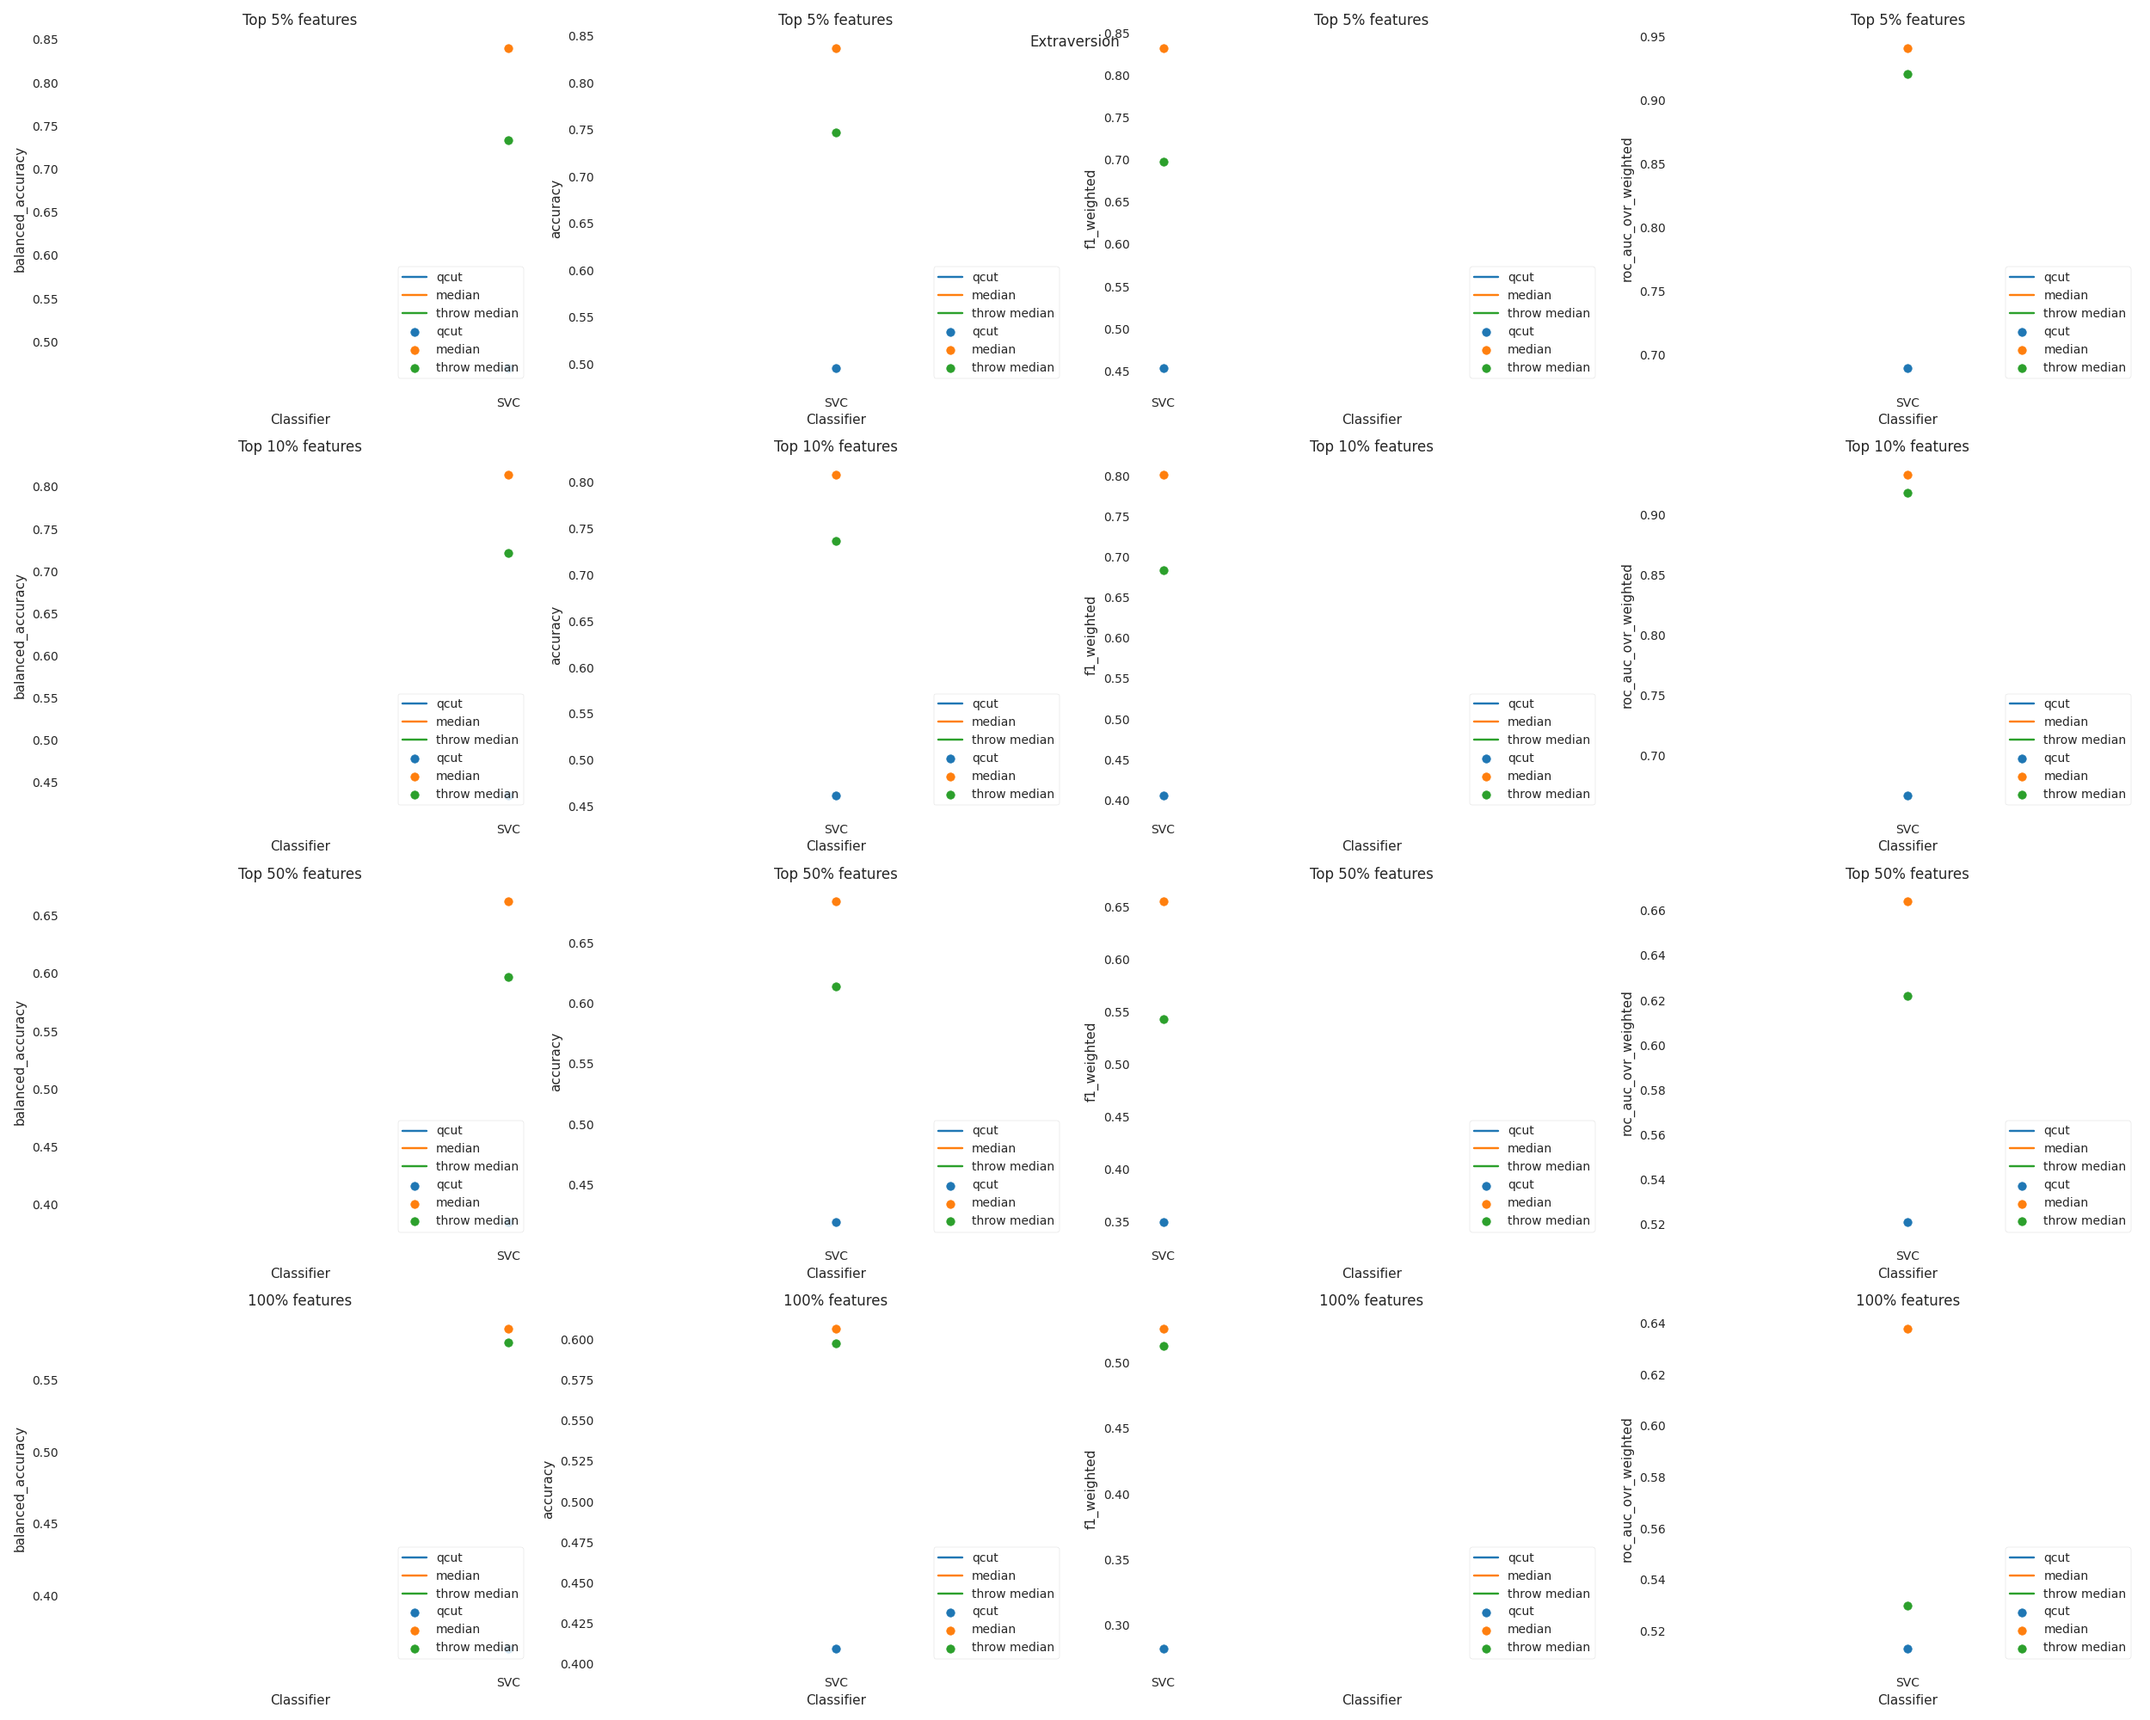
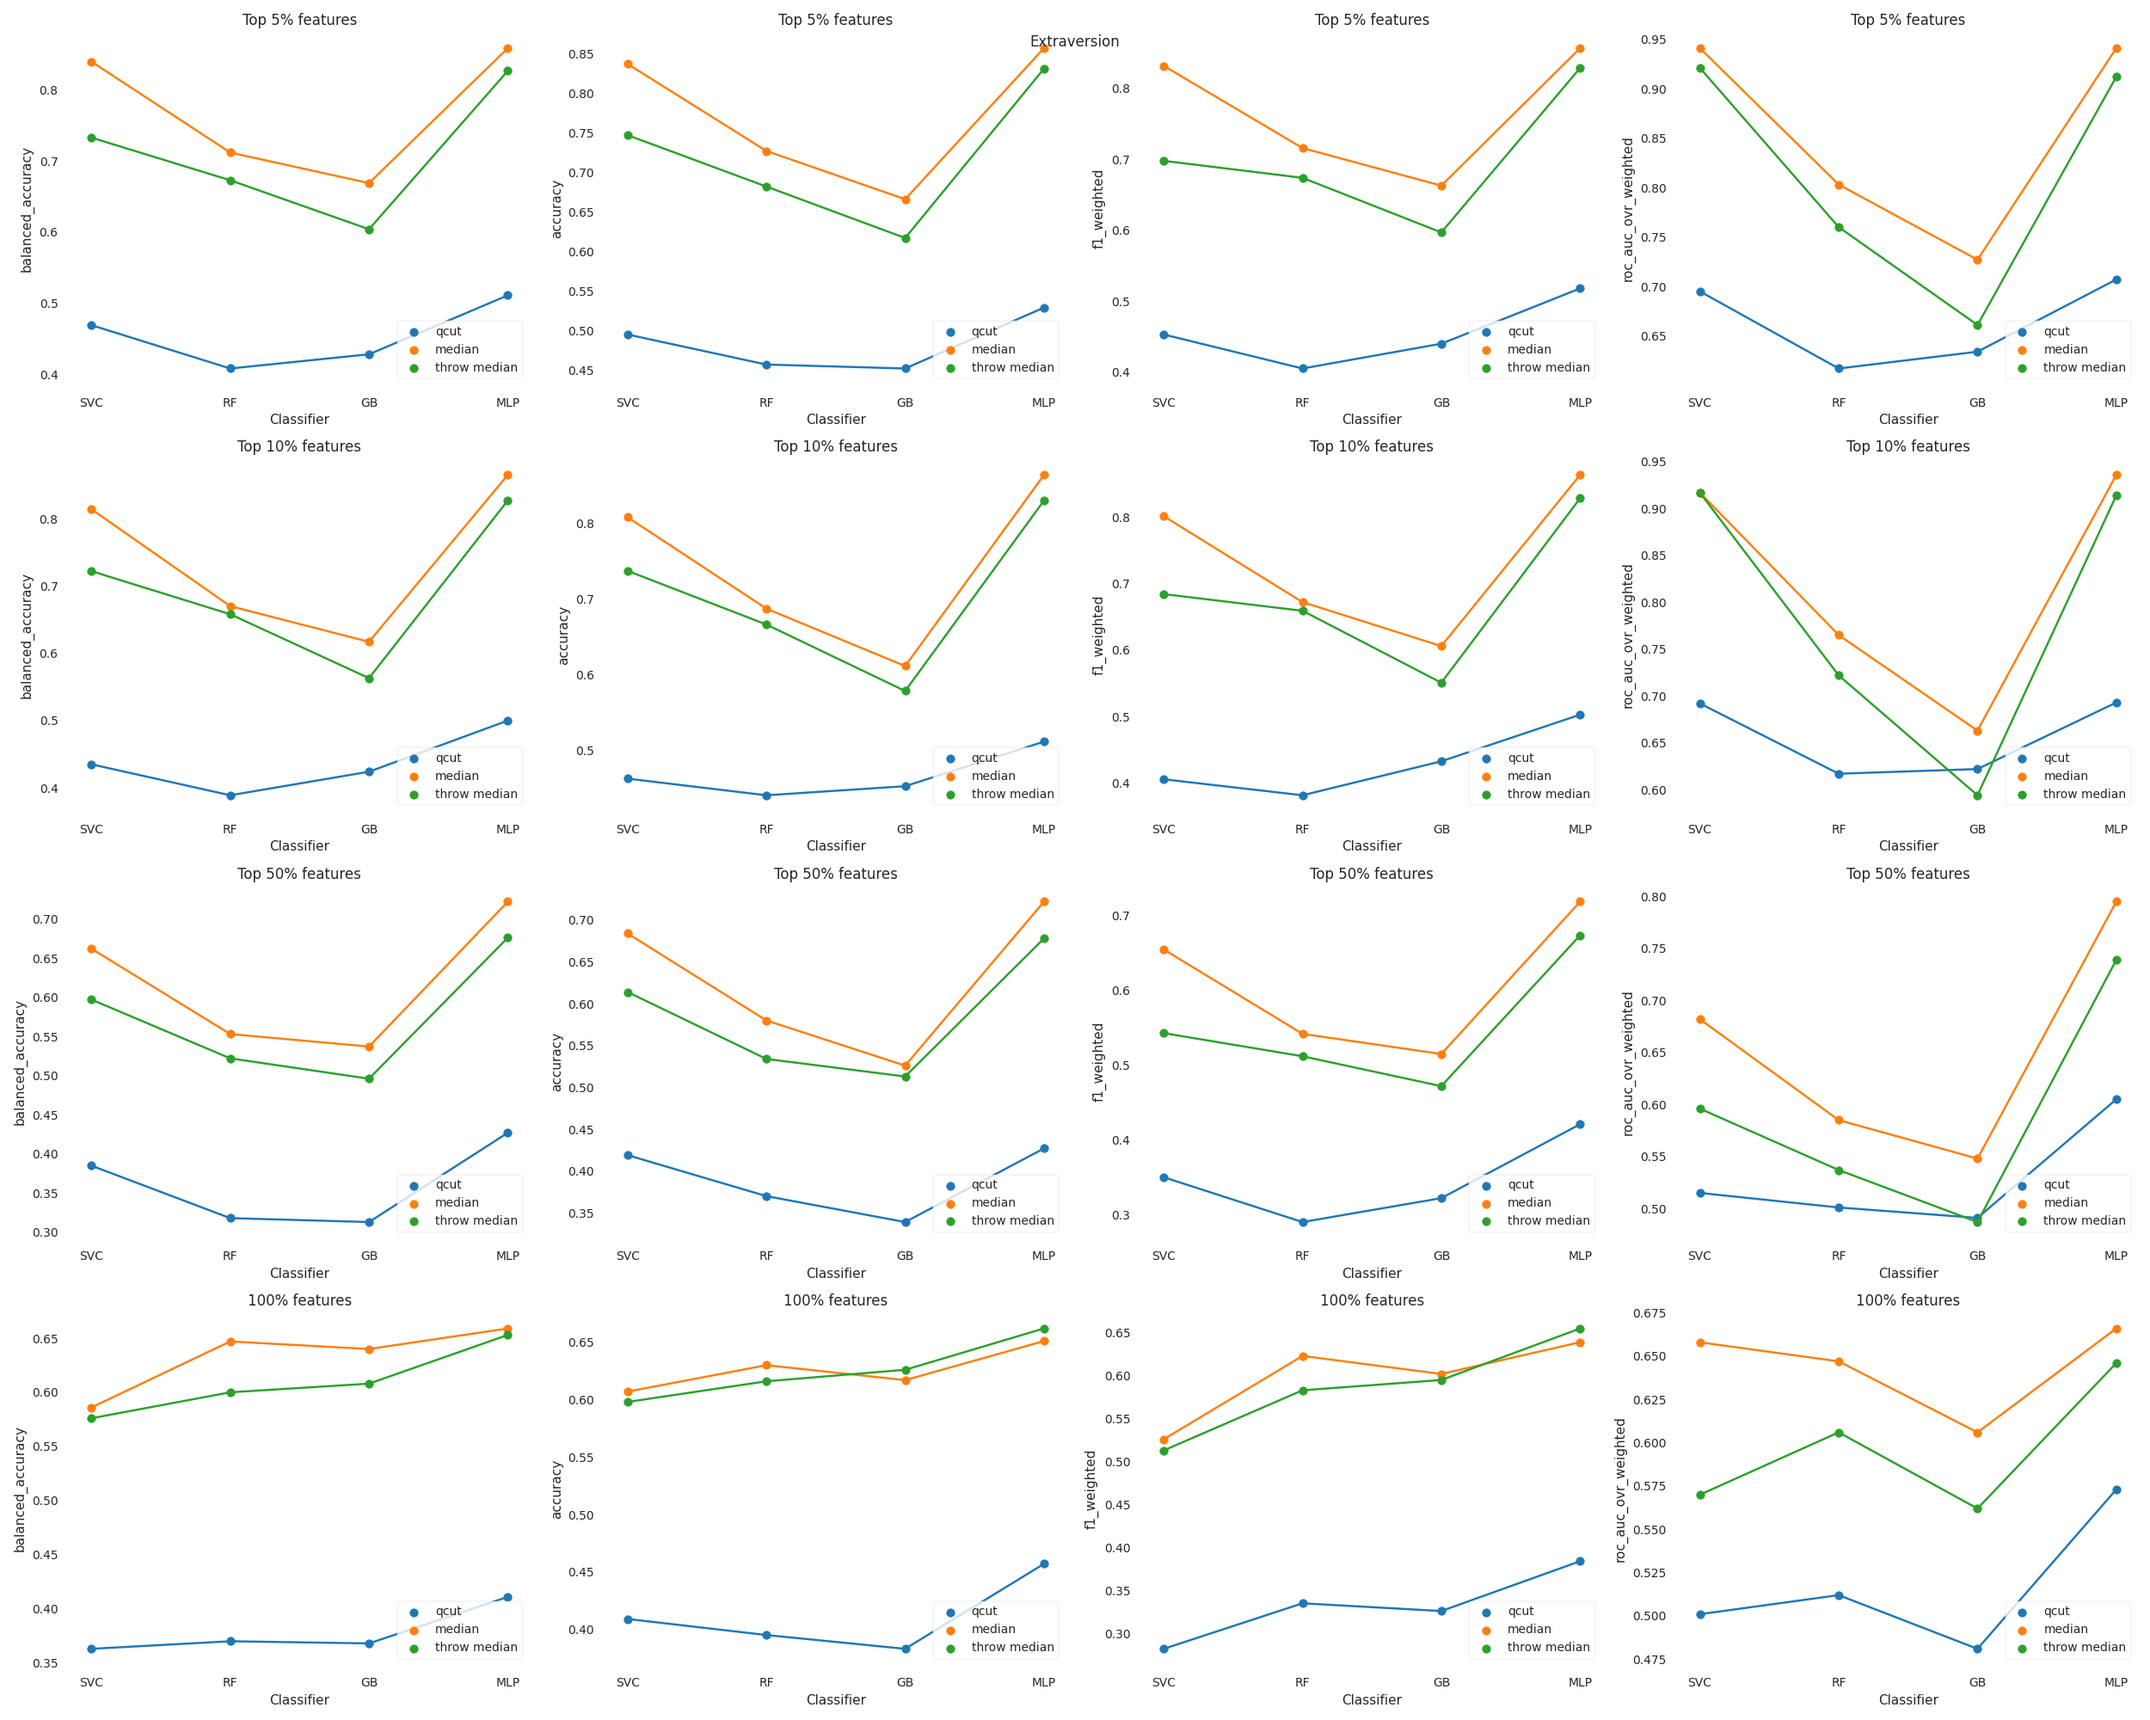
indexes fixed with comparison of different algorithms

diff --git a/graphtools/classification.py b/graphtools/classification.py
@@ -178,7 +178,7 @@ if __name__ == "__main__":
     metrics = ['balanced_accuracy', 'accuracy', 'f1_weighted', 'roc_auc_ovr_weighted']
 
     combined = {}
-    for clf in ['SVC', 'RF', 'GB', 'MLP'][:2]: #other ones are taking too long
+    for clf in ['SVC', 'RF', 'GB', 'MLP']: #other ones are taking too long
         start = time.time()
         d1 = dict_classifier(clf, whole, metrics, labels, big5, data, new_fscores)
         end = time.time()
